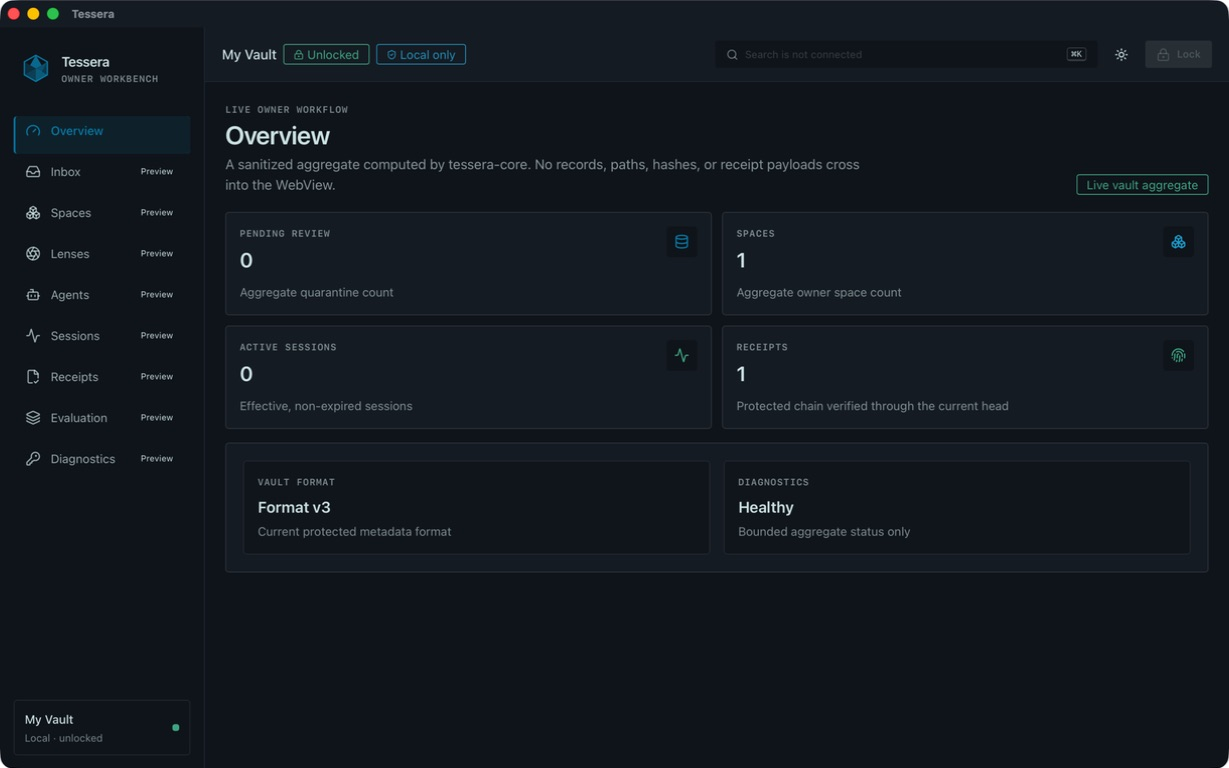
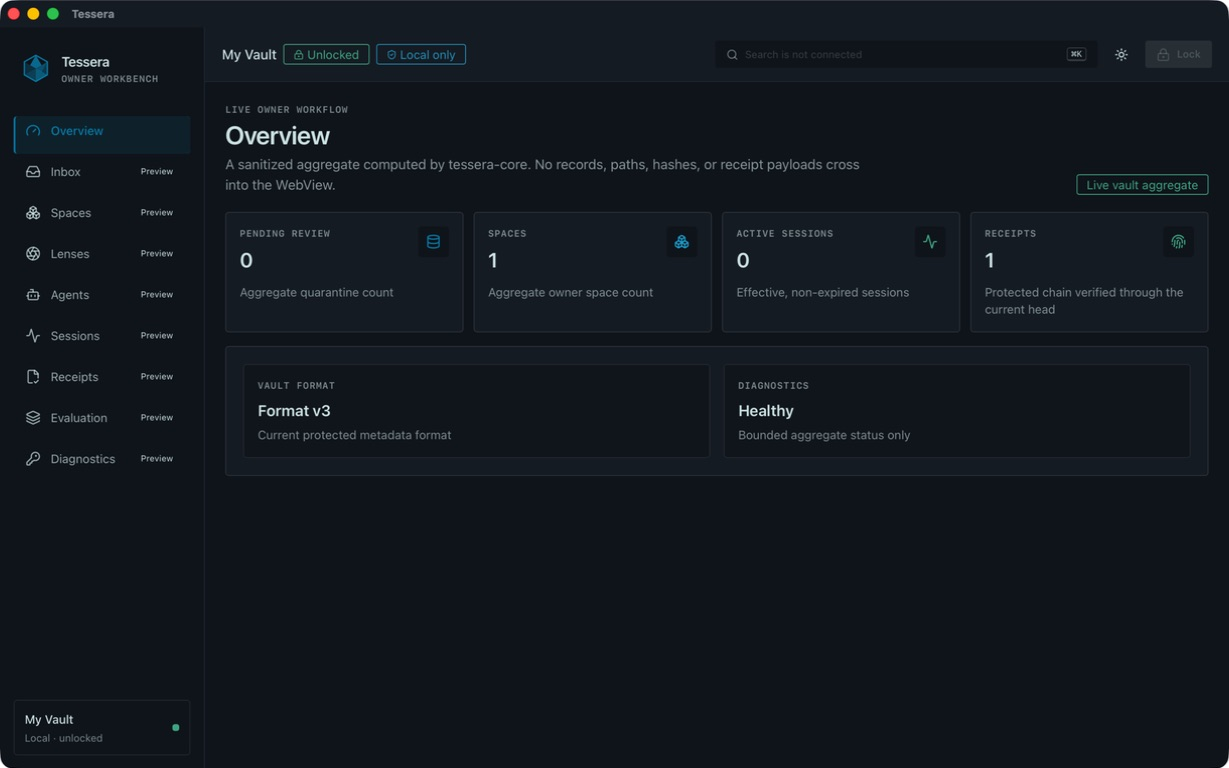
fix: exercise the documented wide desktop layout

diff --git a/apps/tessera-desktop/src/views/WorkbenchViews.tsx b/apps/tessera-desktop/src/views/WorkbenchViews.tsx
@@ -217,7 +217,7 @@ export function OverviewView({
         action={<span className="badge badge-success badge-outline shrink-0 whitespace-nowrap">Live vault aggregate</span>}
       />
 
-      <section className="grid grid-cols-1 gap-3 sm:grid-cols-2 2xl:grid-cols-4" aria-label="Live vault summary">
+      <section className="grid grid-cols-1 gap-3 sm:grid-cols-2 lg:grid-cols-4" aria-label="Live vault summary">
         <MetricCard label="Pending review" value={String(overview.pendingReviewCount)} detail="Aggregate quarantine count" icon={Database} />
         <MetricCard label="Spaces" value={String(overview.spaceCount)} detail="Aggregate owner space count" icon={Boxes} tone="text-accent" />
         <MetricCard label="Active sessions" value={String(overview.activeSessionCount)} detail="Effective, non-expired sessions" icon={Activity} tone="text-success" />

diff --git a/docs/evidence/desktop-workbench-revival.md b/docs/evidence/desktop-workbench-revival.md
@@ -132,7 +132,7 @@ vault was opened.
 | Explicit lock | Live projection cleared immediately; empty path and passphrase fields returned; repeated lock remains covered by native and frontend tests |
 | Theme and focus | Light and dark themes rendered; keyboard Tab produced a visible focus ring on the lock control |
 | Preview honesty | Inbox carried a persistent preview warning; every fixture mutation and filter control was disabled; behavior tests visit all eight preview screens |
-| Responsive layout | Drawer/navigation and aggregate layout inspected at 423, 769, 1025, and 1229 pixel captured widths; vertical scrolling appeared where expected and no horizontal page scrollbar was present |
+| Responsive layout | Drawer/navigation and aggregate layout inspected at compact, medium, desktop, and wide native window sizes; retained screenshots are 423, 769, 1025, and 1229 device pixels respectively. The 1024-CSS-pixel wide four-card arrangement activated in the wide smoke, vertical scrolling appeared where expected, and no horizontal page scrollbar was present. |
 | Exit | Application was explicitly locked before the packaged window closed; native state-drop behavior is independently covered by Rust test |
 
 Retained synthetic-only visual evidence:

diff --git a/docs/desktop-owner-workbench.md b/docs/desktop-owner-workbench.md
@@ -63,11 +63,12 @@ successful mutations, or release readiness.
 
 - Compact: 360 to 639 CSS pixels in the packaged app. Navigation uses an explicit modal drawer,
   actions wrap, and content panels stack in workflow order.
-- Medium: 640 to 1023 CSS pixels. Summary grids use two columns where readable;
+- Medium: 640 to 767 CSS pixels. Summary grids use two columns where readable;
   navigation remains compact.
-- Desktop: 1024 to 1535 CSS pixels. Navigation remains visible.
-- Wide: 1536 CSS pixels and above. Preview inbox uses its third information
-  panel.
+- Desktop: 768 to 1023 CSS pixels. Navigation remains compact while content
+  panels gain working room.
+- Wide: 1024 CSS pixels and above. Navigation remains visible and the live
+  aggregate uses a four-card summary row.
 - Coarse pointers receive a 44-pixel target floor.
 - The application honors reduced motion and exposes visible keyboard focus.
 - No viewport may require horizontal page scrolling. Dense preview tables may
